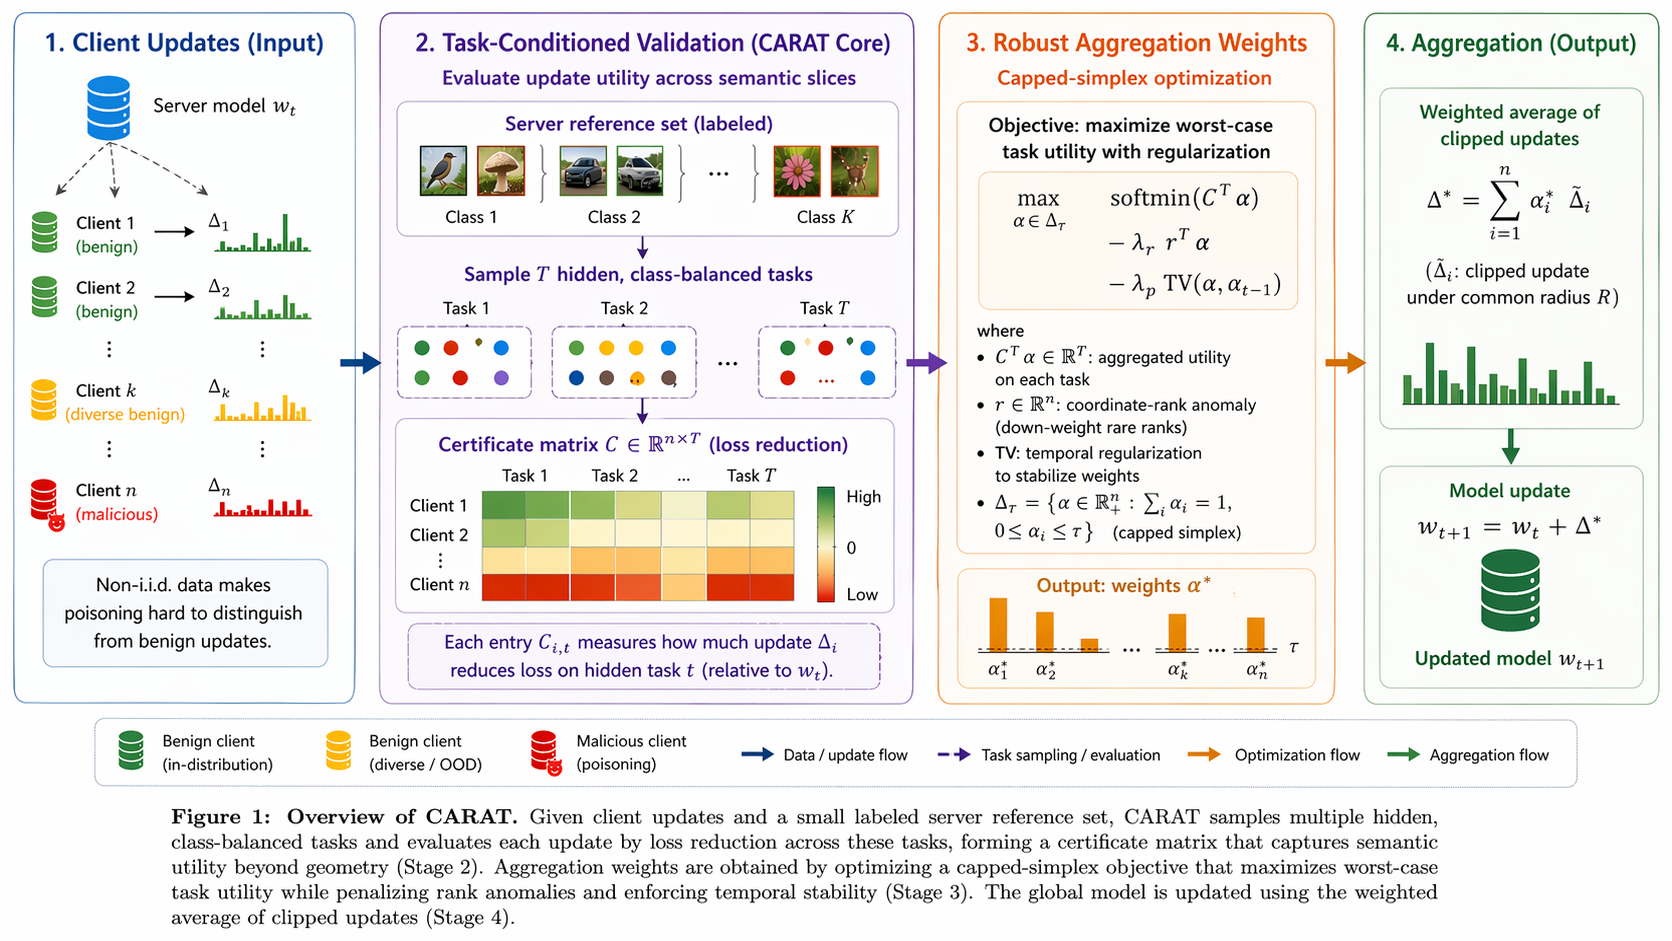
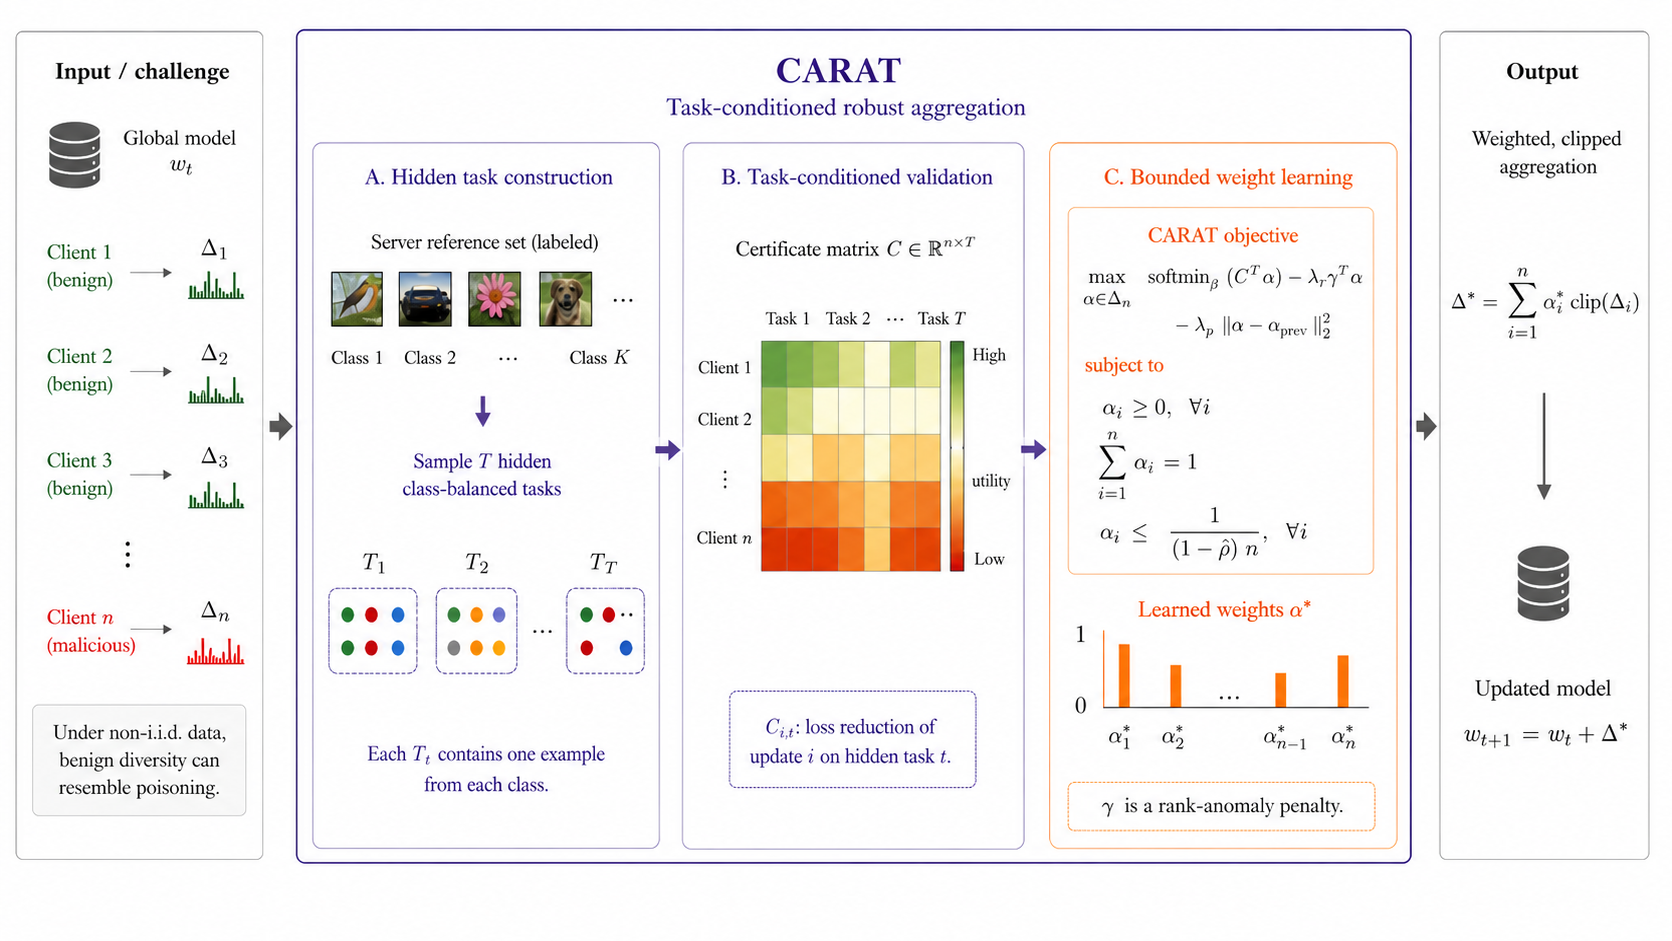
Updates from Overleaf

Changed region(s): [[0.0, 0.0, 0.9952, 0.9862]]

diff --git a/Formatting_Instructions_For_NeurIPS_2026/neurips.tex b/Formatting_Instructions_For_NeurIPS_2026/neurips.tex
@@ -139,7 +139,7 @@ CARAT turns the requirements above into a server-side aggregation procedure with
 
 \begin{figure*}[!htbp]
 \centering
-\safeincludegraphics[width=\textwidth]{figures/Carat_design_nocaption.png}
+\safeincludegraphics[width=\textwidth]{figures/Carat_design.png}
 \caption{Overview of CARAT. Non-i.i.d.\ client data can make diverse benign updates difficult to distinguish from poisoning updates. CARAT uses a small labeled server reference set to sample hidden class-balanced tasks, forms a certificate matrix from task-level loss reductions, learns capped-simplex aggregation weights with rank-anomaly and temporal-stability penalties, and updates the global model by a weighted average of clipped client updates.}
 \label{fig:carat-overview}
 \end{figure*}
